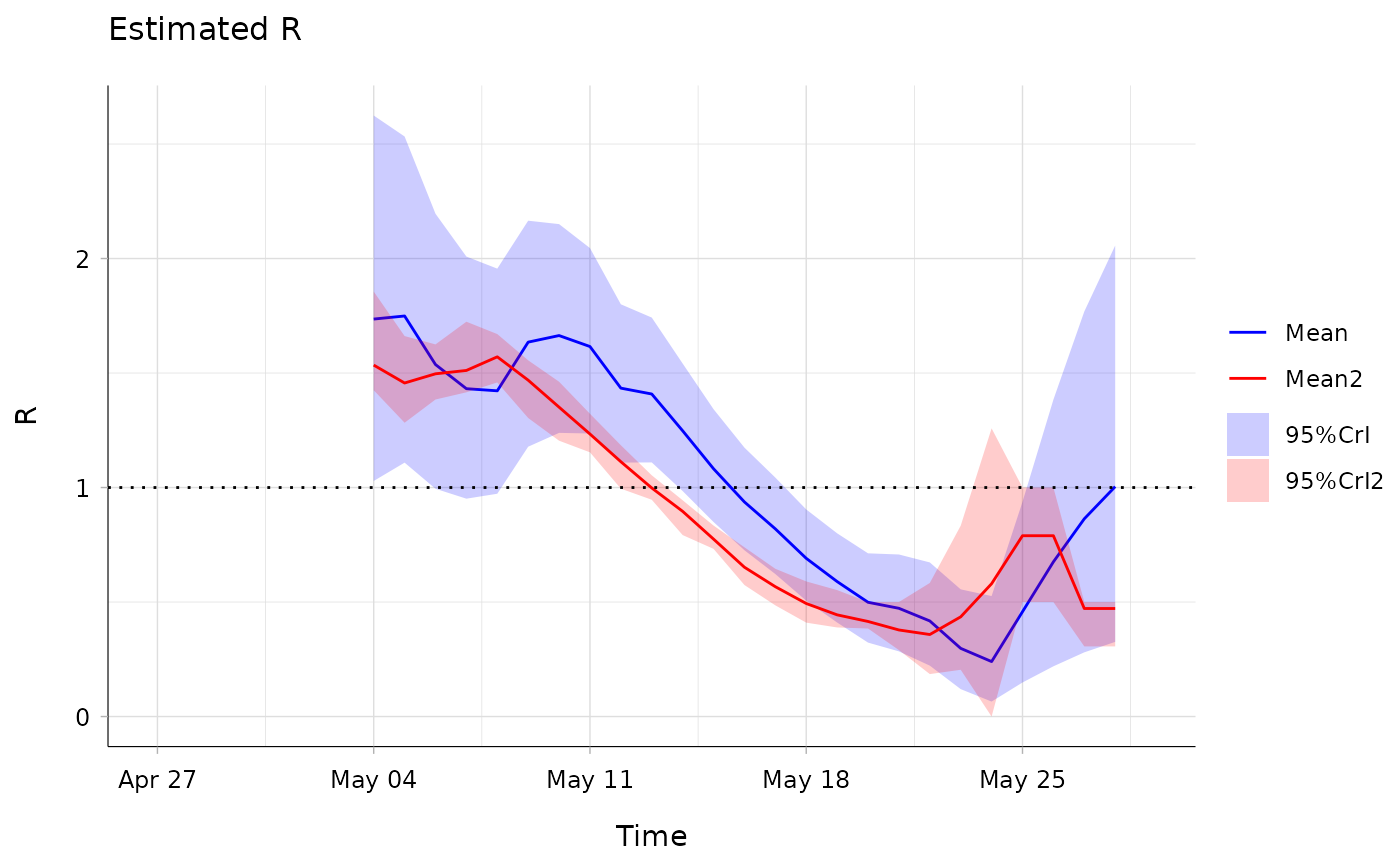
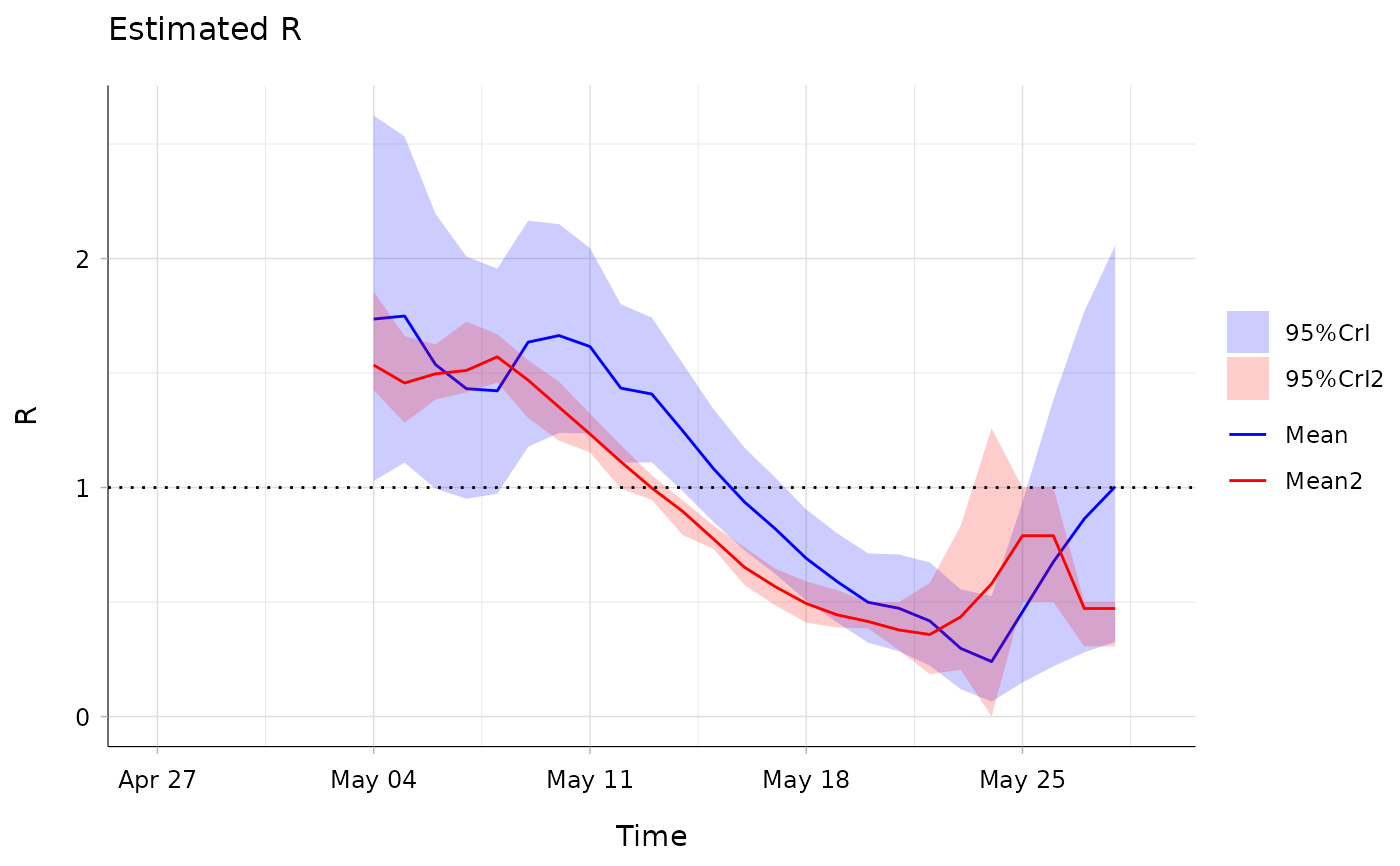
Deploying to gh-pages from @ mrc-ide/EpiEstim@f96c8ec0bb21532f08e981eeaa5ec2440d3b4dc4 🚀

Changed region(s): [[0.86, 0.343, 0.9829, 0.5924]]

diff --git a/articles/MV_EpiEstim_vignette.html b/articles/MV_EpiEstim_vignette.html
@@ -94,7 +94,7 @@
     <div class="page-header toc-ignore">
       <h1 data-toc-skip>MV-EpiEstim</h1>
             
-            <h4 data-toc-skip class="date">2026-06-26</h4>
+            <h4 data-toc-skip class="date">2026-07-20</h4>
       
       <small class="dont-index">Source: <a href="https://github.com/mrc-ide/EpiEstim/blob/main/vignettes/MV_EpiEstim_vignette.Rmd" class="external-link"><code>vignettes/MV_EpiEstim_vignette.Rmd</code></a></small>
       <div class="hidden name"><code>MV_EpiEstim_vignette.Rmd</code></div>
@@ -500,7 +500,7 @@ sum to 1.</p>
 
 <div class="pkgdown">
   <p></p>
-<p>Site built with <a href="https://pkgdown.r-lib.org/" class="external-link">pkgdown</a> 2.2.0.</p>
+<p>Site built with <a href="https://pkgdown.r-lib.org/" class="external-link">pkgdown</a> 2.2.1.</p>
 </div>
 
       </footer>

diff --git a/articles/alternative_software.html b/articles/alternative_software.html
@@ -96,7 +96,7 @@
       <h1 data-toc-skip>Alternative software for estimating the
 reproduction number</h1>
             
-            <h4 data-toc-skip class="date">2026-06-26</h4>
+            <h4 data-toc-skip class="date">2026-07-20</h4>
       
       <small class="dont-index">Source: <a href="https://github.com/mrc-ide/EpiEstim/blob/main/vignettes/alternative_software.Rmd" class="external-link"><code>vignettes/alternative_software.Rmd</code></a></small>
       <div class="hidden name"><code>alternative_software.Rmd</code></div>
@@ -509,7 +509,7 @@ below:<br>APEestim (<em>v 0.0.1</em>): <a href="https://github.com/kpzoo/APEesti
 
 <div class="pkgdown">
   <p></p>
-<p>Site built with <a href="https://pkgdown.r-lib.org/" class="external-link">pkgdown</a> 2.2.0.</p>
+<p>Site built with <a href="https://pkgdown.r-lib.org/" class="external-link">pkgdown</a> 2.2.1.</p>
 </div>
 
       </footer>

diff --git a/articles/full_EpiEstim_vignette.html b/articles/full_EpiEstim_vignette.html
@@ -97,7 +97,7 @@
                         <h4 data-toc-skip class="author">Rebecca
 Nash</h4>
             
-            <h4 data-toc-skip class="date">2026-06-26</h4>
+            <h4 data-toc-skip class="date">2026-07-20</h4>
       
       <small class="dont-index">Source: <a href="https://github.com/mrc-ide/EpiEstim/blob/main/vignettes/full_EpiEstim_vignette.Rmd" class="external-link"><code>vignettes/full_EpiEstim_vignette.Rmd</code></a></small>
       <div class="hidden name"><code>full_EpiEstim_vignette.Rmd</code></div>
@@ -1335,7 +1335,7 @@ Medicine. 2015 Feb 5;372(6):584–7.</p></li>
 
 <div class="pkgdown">
   <p></p>
-<p>Site built with <a href="https://pkgdown.r-lib.org/" class="external-link">pkgdown</a> 2.2.0.</p>
+<p>Site built with <a href="https://pkgdown.r-lib.org/" class="external-link">pkgdown</a> 2.2.1.</p>
 </div>
 
       </footer>

diff --git a/articles/short_demo.html b/articles/short_demo.html
@@ -95,7 +95,7 @@
       <h1 data-toc-skip>EpiEstim: a demonstration</h1>
                         <h4 data-toc-skip class="author">Anne Cori</h4>
             
-            <h4 data-toc-skip class="date">2026-06-26</h4>
+            <h4 data-toc-skip class="date">2026-07-20</h4>
       
       <small class="dont-index">Source: <a href="https://github.com/mrc-ide/EpiEstim/blob/main/vignettes/short_demo.Rmd" class="external-link"><code>vignettes/short_demo.Rmd</code></a></small>
       <div class="hidden name"><code>short_demo.Rmd</code></div>
@@ -705,7 +705,7 @@ Please note the app does not have all features from the R package.</p>
 
 <div class="pkgdown">
   <p></p>
-<p>Site built with <a href="https://pkgdown.r-lib.org/" class="external-link">pkgdown</a> 2.2.0.</p>
+<p>Site built with <a href="https://pkgdown.r-lib.org/" class="external-link">pkgdown</a> 2.2.1.</p>
 </div>
 
       </footer>

diff --git a/404.html b/404.html
@@ -115,7 +115,7 @@ Content not found. Please use links in the navbar.
 
 <div class="pkgdown">
   <p></p>
-<p>Site built with <a href="https://pkgdown.r-lib.org/" class="external-link">pkgdown</a> 2.2.0.</p>
+<p>Site built with <a href="https://pkgdown.r-lib.org/" class="external-link">pkgdown</a> 2.2.1.</p>
 </div>
 
       </footer>

diff --git a/CODE-DESIGN.html b/CODE-DESIGN.html
@@ -156,7 +156,7 @@
 </div>
 
 <div class="pkgdown">
-  <p></p><p>Site built with <a href="https://pkgdown.r-lib.org/" class="external-link">pkgdown</a> 2.2.0.</p>
+  <p></p><p>Site built with <a href="https://pkgdown.r-lib.org/" class="external-link">pkgdown</a> 2.2.1.</p>
 </div>
 
       </footer></div>

diff --git a/CONTRIBUTING.html b/CONTRIBUTING.html
@@ -108,7 +108,7 @@
 </div>
 
 <div class="pkgdown">
-  <p></p><p>Site built with <a href="https://pkgdown.r-lib.org/" class="external-link">pkgdown</a> 2.2.0.</p>
+  <p></p><p>Site built with <a href="https://pkgdown.r-lib.org/" class="external-link">pkgdown</a> 2.2.1.</p>
 </div>
 
       </footer></div>

diff --git a/articles/EpiEstim_aggregated_data.html b/articles/EpiEstim_aggregated_data.html
@@ -402,7 +402,7 @@ of the Royal Society B: Biological Sciences. 2007 Feb
 
 <div class="pkgdown">
   <p></p>
-<p>Site built with <a href="https://pkgdown.r-lib.org/" class="external-link">pkgdown</a> 2.2.0.</p>
+<p>Site built with <a href="https://pkgdown.r-lib.org/" class="external-link">pkgdown</a> 2.2.1.</p>
 </div>
 
       </footer>

diff --git a/articles/EpiEstim_backimputation.html b/articles/EpiEstim_backimputation.html
@@ -367,7 +367,7 @@ Infection in Emerging Epidemics, Clinical Infectious Diseases, Volume
 
 <div class="pkgdown">
   <p></p>
-<p>Site built with <a href="https://pkgdown.r-lib.org/" class="external-link">pkgdown</a> 2.2.0.</p>
+<p>Site built with <a href="https://pkgdown.r-lib.org/" class="external-link">pkgdown</a> 2.2.1.</p>
 </div>
 
       </footer>

diff --git a/articles/index.html b/articles/index.html
@@ -97,7 +97,7 @@
 </div>
 
 <div class="pkgdown">
-  <p></p><p>Site built with <a href="https://pkgdown.r-lib.org/" class="external-link">pkgdown</a> 2.2.0.</p>
+  <p></p><p>Site built with <a href="https://pkgdown.r-lib.org/" class="external-link">pkgdown</a> 2.2.1.</p>
 </div>
 
       </footer></div>

diff --git a/authors.html b/authors.html
@@ -177,7 +177,7 @@ R package version 2.4, <a href="https://github.com/mrc-ide/EpiEstim" class="exte
 </div>
 
 <div class="pkgdown">
-  <p></p><p>Site built with <a href="https://pkgdown.r-lib.org/" class="external-link">pkgdown</a> 2.2.0.</p>
+  <p></p><p>Site built with <a href="https://pkgdown.r-lib.org/" class="external-link">pkgdown</a> 2.2.1.</p>
 </div>
 
       </footer></div>

diff --git a/index.html b/index.html
@@ -226,7 +226,7 @@
 
 <div class="pkgdown">
   <p></p>
-<p>Site built with <a href="https://pkgdown.r-lib.org/" class="external-link">pkgdown</a> 2.2.0.</p>
+<p>Site built with <a href="https://pkgdown.r-lib.org/" class="external-link">pkgdown</a> 2.2.1.</p>
 </div>
 
       </footer>